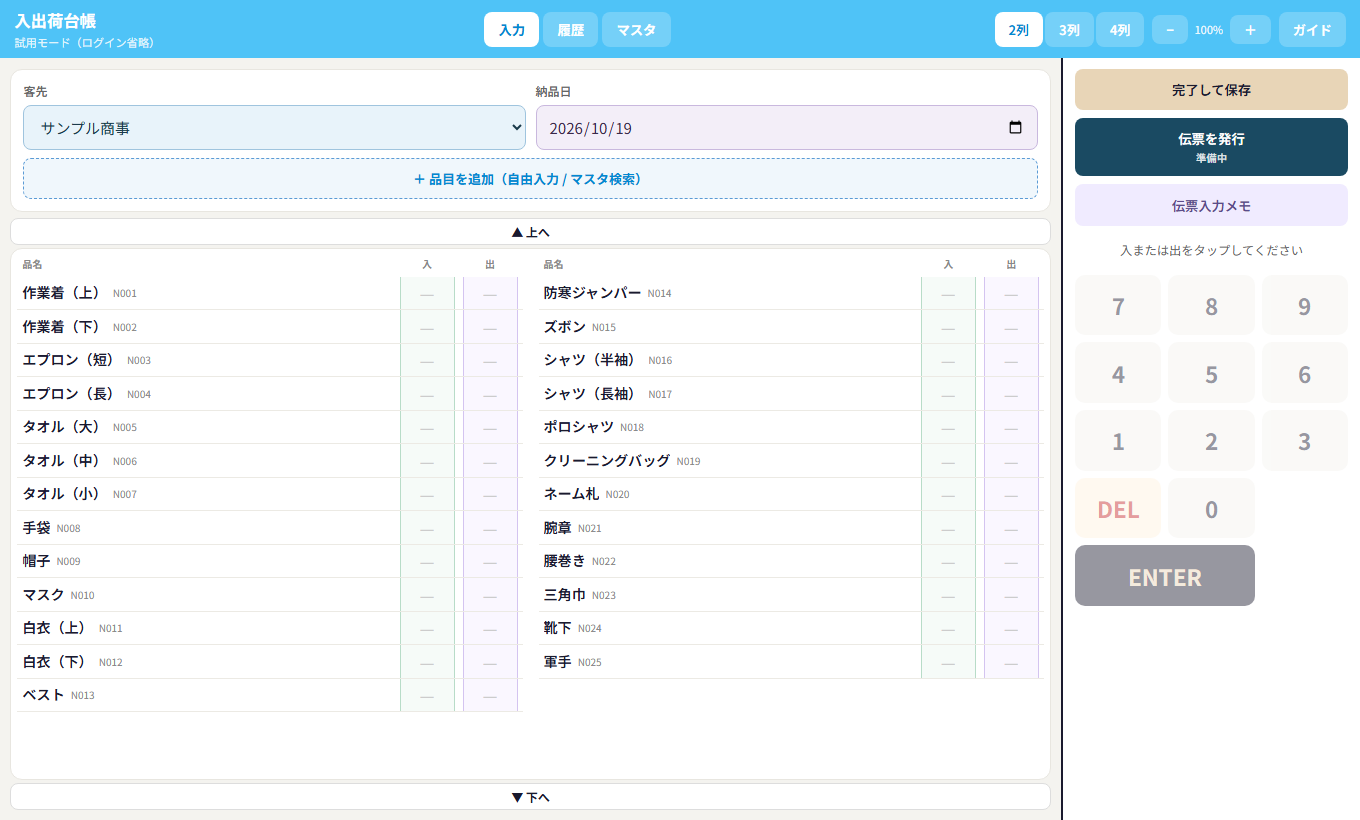
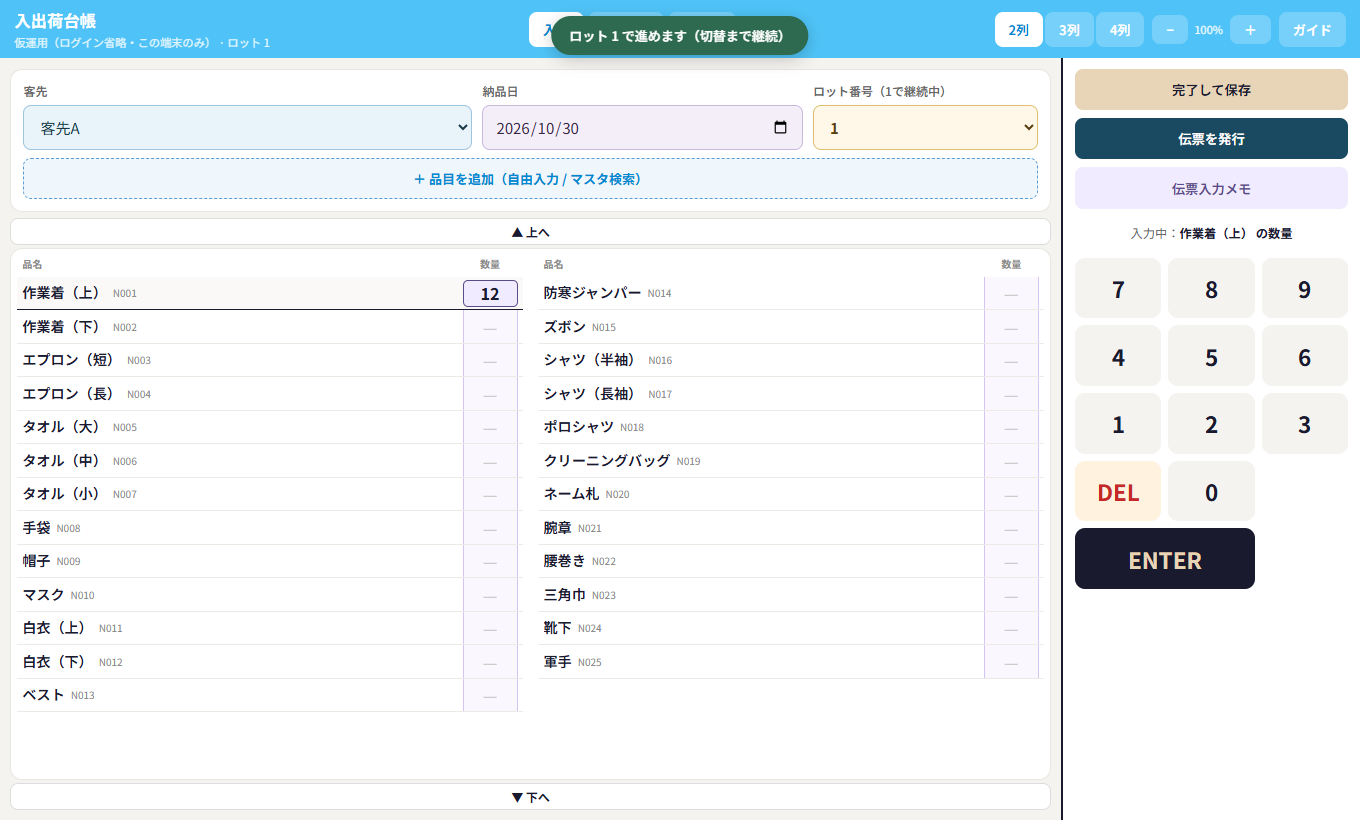
Refresh ledger guide for quantity column, lot, and slip handoff.

diff --git a/guide.html b/guide.html
@@ -46,7 +46,7 @@
       section { break-inside: avoid; page-break-inside: avoid; border: 1px solid #ccc; margin-bottom: 12px; box-shadow: none; }
       figure.shot { break-inside: avoid; page-break-inside: avoid; }
       figure.shot img { max-height: 55vh; object-fit: contain; border-radius: 0; }
-      .tip, .ok, .swatch, th, .master-subtab, a.nav { -webkit-print-color-adjust: exact; print-color-adjust: exact; }
+      .tip, .ok, .swatch, th, a.nav { -webkit-print-color-adjust: exact; print-color-adjust: exact; }
       a[href]::after { content: ""; }
       .footer { margin-top: 16px; }
     }
@@ -57,7 +57,7 @@
     <div class="top-inner">
       <div>
         <h1>入出荷台帳｜使い方ガイド</h1>
-        <p>客先提出・説明用（画面イメージ付き）</p>
+        <p>客先提出・説明用（画面イメージ付き）・2026-10-30 更新</p>
       </div>
       <button type="button" class="print-btn" onclick="window.print()">印刷する</button>
     </div>
@@ -78,22 +78,24 @@
 
     <section id="start">
       <h2>1. はじめに</h2>
-      <p>客先ごとのリネン・ユニフォームなどを「入（回収）」「出（納品）」の数量で記録し、履歴に残すアプリです。手書き台帳の代わりに、タブレットで現場入力できます。</p>
+      <p>客先ごとのリネン・ユニフォームなどの<strong>数量</strong>を記録し、履歴に残すアプリです。手書き台帳の代わりに、タブレットで現場入力できます。</p>
       <ul>
         <li>画面上部の <strong>入力</strong> / <strong>履歴</strong> / <strong>マスタ</strong> で切り替えます。</li>
         <li>タブレットは<strong>横置き</strong>が使いやすいです（右側にテンキー）。</li>
         <li>「アプリをインストール」でホーム画面に置けます（対応ブラウザ）。</li>
+        <li>URL例：<a href="https://pv-dn.github.io/pourvous-ledger/" style="color:#0277a8">https://pv-dn.github.io/pourvous-ledger/</a></li>
       </ul>
     </section>
 
     <section id="link">
       <h2>2. 伝票発行アプリとの連動</h2>
-      <p>このアプリを導入すると、<strong>伝票発行アプリと連動</strong>ができ、<strong>客先・品目も共有</strong>されます。よって、<strong>台帳アプリからも伝票発行</strong>ができるようになります。</p>
+      <p>台帳で入力した<strong>数量</strong>と<strong>ロット番号</strong>を、伝票発行アプリへ渡せます。</p>
       <ul>
-        <li>客先・品目を二重登録しなくてよくなります。</li>
-        <li>現場で確定した「出」から、納品書などの伝票を出せます。</li>
-        <li>従来どおり伝票アプリから発行することもできます。</li>
+        <li><strong>伝票を発行</strong>を押すと、伝票アプリが開きます。</li>
+        <li>伝票側でログインすると、客先・数量・ロットが入ります（確認してから伝票発行）。</li>
+        <li>従来どおり、伝票アプリだけで発行することもできます。</li>
       </ul>
+      <div class="tip">同じPC／同じブラウザで使うと、受け渡しがスムーズです（同じサイト内の仕組みを使います）。</div>
     </section>
 
     <section id="roles">
@@ -101,7 +103,7 @@
       <table>
         <tr><th>端末</th><td>やること</td></tr>
         <tr><th>PC</th><td>客先・グループ・品目の登録・編集・削除。入力も可</td></tr>
-        <tr><th>タブレット</th><td>現場の入出荷入力（横置き想定）。客先・品目の追加・編集も可</td></tr>
+        <tr><th>タブレット</th><td>現場の数量入力（横置き想定）。客先・品目の追加・編集も可</td></tr>
       </table>
       <p class="muted">想定端末は PC とタブレットです。</p>
     </section>
@@ -110,15 +112,17 @@
       <h2>4. 入力画面</h2>
       <figure class="shot">
         <img src="./guide-shots/shot-input.png" alt="入力画面のスクリーンショット" width="1360" height="820">
-        <figcaption>図1. 入力画面（客先・品目・入出・テンキー）</figcaption>
+        <figcaption>図1. 入力画面（客先・ロット・品目・数量・テンキー）※画面は最新版で「数量」1列です</figcaption>
       </figure>
       <ol>
+        <li><strong>ロット番号</strong>を選ぶ（1〜10）。切り替えるまで同じロットのまま続きます。</li>
         <li><strong>客先</strong>を選ぶ → その客先の品目が一覧表示されます。</li>
         <li><strong>納品日</strong>を確認・変更します。</li>
-        <li>品目の <strong>入</strong> または <strong>出</strong> をタップします。</li>
-        <li>右のテンキーで数量を入れ、<strong>ENTER</strong>で同じ欄の次の品目へ進みます。</li>
-        <li>終わったら <strong>完了して保存</strong>。</li>
+        <li>品目の<strong>数量</strong>マスをタップします。</li>
+        <li>右のテンキーで数字を入れ、<strong>ENTER</strong>で次の品目へ進みます。</li>
+        <li>終わったら <strong>完了して保存</strong>。伝票にするときは <strong>伝票を発行</strong>。</li>
       </ol>
+      <div class="ok">数量＝伝票に載せる点数です。出さない品目は空（または0）のままでOKです。</div>
       <h3>表示の切り替え</h3>
       <ul>
         <li><strong>2列 / 3列 / 4列</strong> … 品目の並び列数。2列のとき、画面にだいたい15行入る大きさが基準です。</li>
@@ -126,17 +130,16 @@
       </ul>
       <h3>色の目安</h3>
       <ul>
-        <li>入のマス … 薄い緑</li>
-        <li>出のマス … 薄い紫</li>
-        <li>入と出の数が違うとき … 出が赤くなります</li>
+        <li>数量のマス … 薄い紫</li>
+        <li>入力中のマス … 少し濃い紫</li>
       </ul>
       <h3>品目をその場で足す</h3>
       <p>「＋ 品目を追加」から、自由入力またはマスタ検索ができます。すでにマスタにある名前は「登録済み」としてマスタ側が追加されます。</p>
       <h3>右側のボタン</h3>
       <ul>
         <li><strong>完了して保存</strong> … 台帳を保存します。</li>
-        <li><strong>伝票を発行</strong> … 将来、ここから伝票アプリへつなぐ予定です（いまは「準備中」表示）。</li>
-        <li><strong>伝票入力メモ</strong> … 「出」の数量を確認する画面。当面はここを見ながら伝票アプリへ転記します。</li>
+        <li><strong>伝票を発行</strong> … 伝票アプリを開き、数量・ロットを渡します（ログイン後に反映）。</li>
+        <li><strong>伝票入力メモ</strong> … 数量の確認用画面。手で転記するときにも使えます。</li>
       </ul>
     </section>
 
@@ -148,9 +151,8 @@
       </figure>
       <ul>
         <li>保存した台帳が、納品日の新しい順に並びます。</li>
-        <li>行をタップすると明細を確認できます。</li>
+        <li>行をタップすると明細（品名・数量）を確認できます。</li>
         <li>ここから「伝票入力メモ」も開けます。</li>
-        <li>試用・仮運用では、履歴が空のとき見本データが入ります（保存すると上書きされます）。</li>
       </ul>
     </section>
 
@@ -200,7 +202,7 @@
     <section id="tips">
       <h2>8. 便利な操作</h2>
       <ul>
-        <li>テンキーの <strong>ENTER</strong> … 同じ「入」または「出」のまま次の品目へ</li>
+        <li>テンキーの <strong>ENTER</strong> … 数量のまま次の品目へ</li>
         <li>別のマスをタップ … いまの入力を確定して移動</li>
         <li><strong>DEL</strong> … 1桁消す</li>
         <li>一覧の ▲上へ / ▼下へ … 画面をスクロール</li>
@@ -212,9 +214,10 @@
       <h2>9. 一日の流れ（例）</h2>
       <ol>
         <li>タブレットでアプリを開く</li>
-        <li>客先を選んで入・出を入力</li>
+        <li>ロット番号を選ぶ</li>
+        <li>客先を選んで数量を入力</li>
         <li>完了して保存</li>
-        <li>必要なら伝票入力メモを見ながら、伝票アプリで納品書を発行（「伝票を発行」は準備中）</li>
+        <li>必要なら「伝票を発行」→ 伝票アプリでログイン・確認・印刷</li>
         <li>客先や品目のメンテはPCまたはタブレットのマスタから</li>
       </ol>
     </section>
